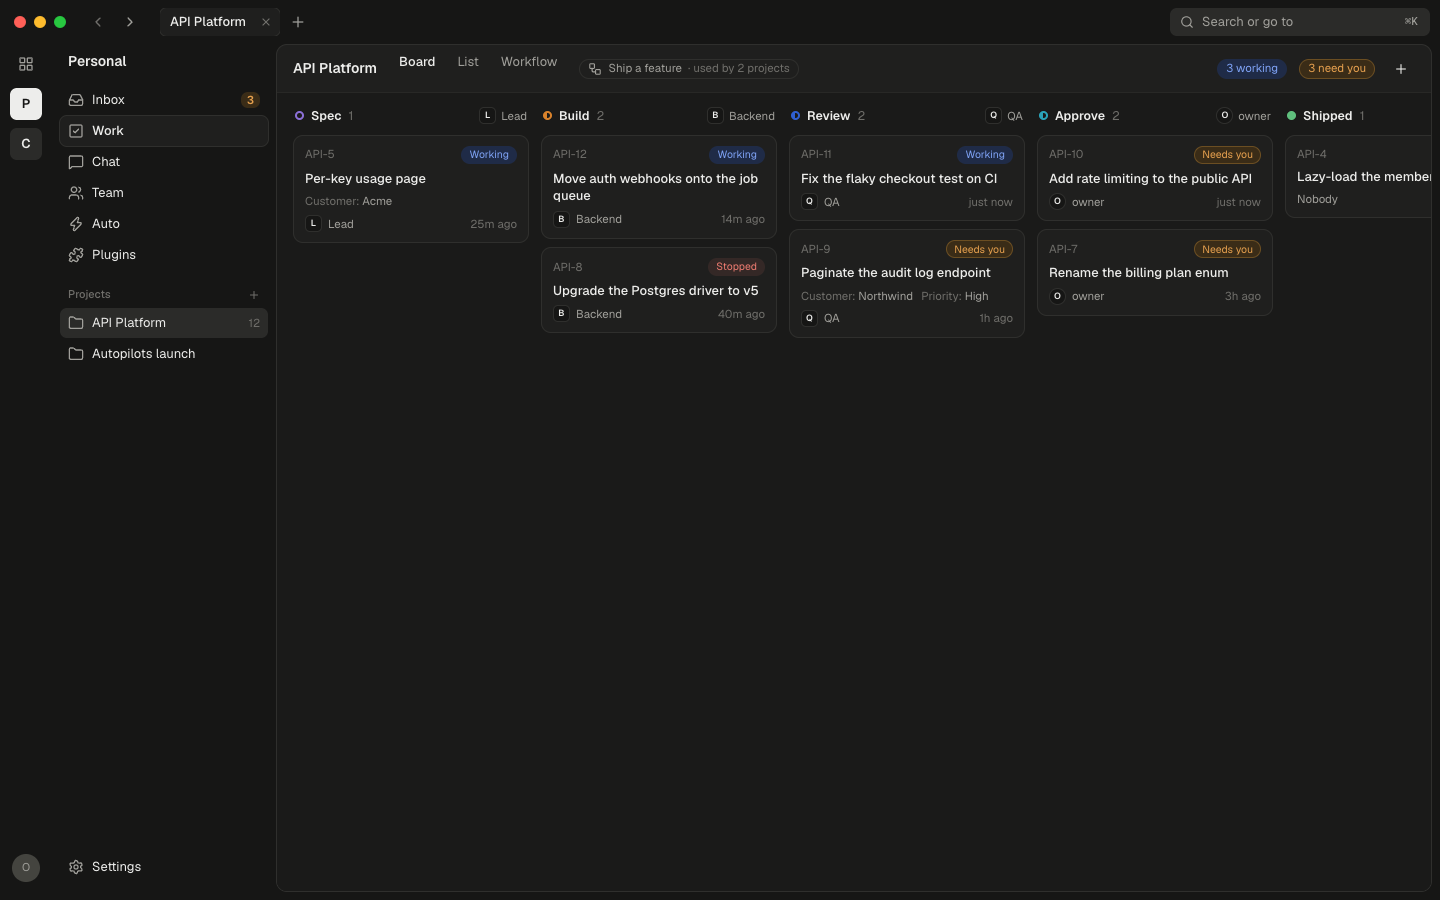
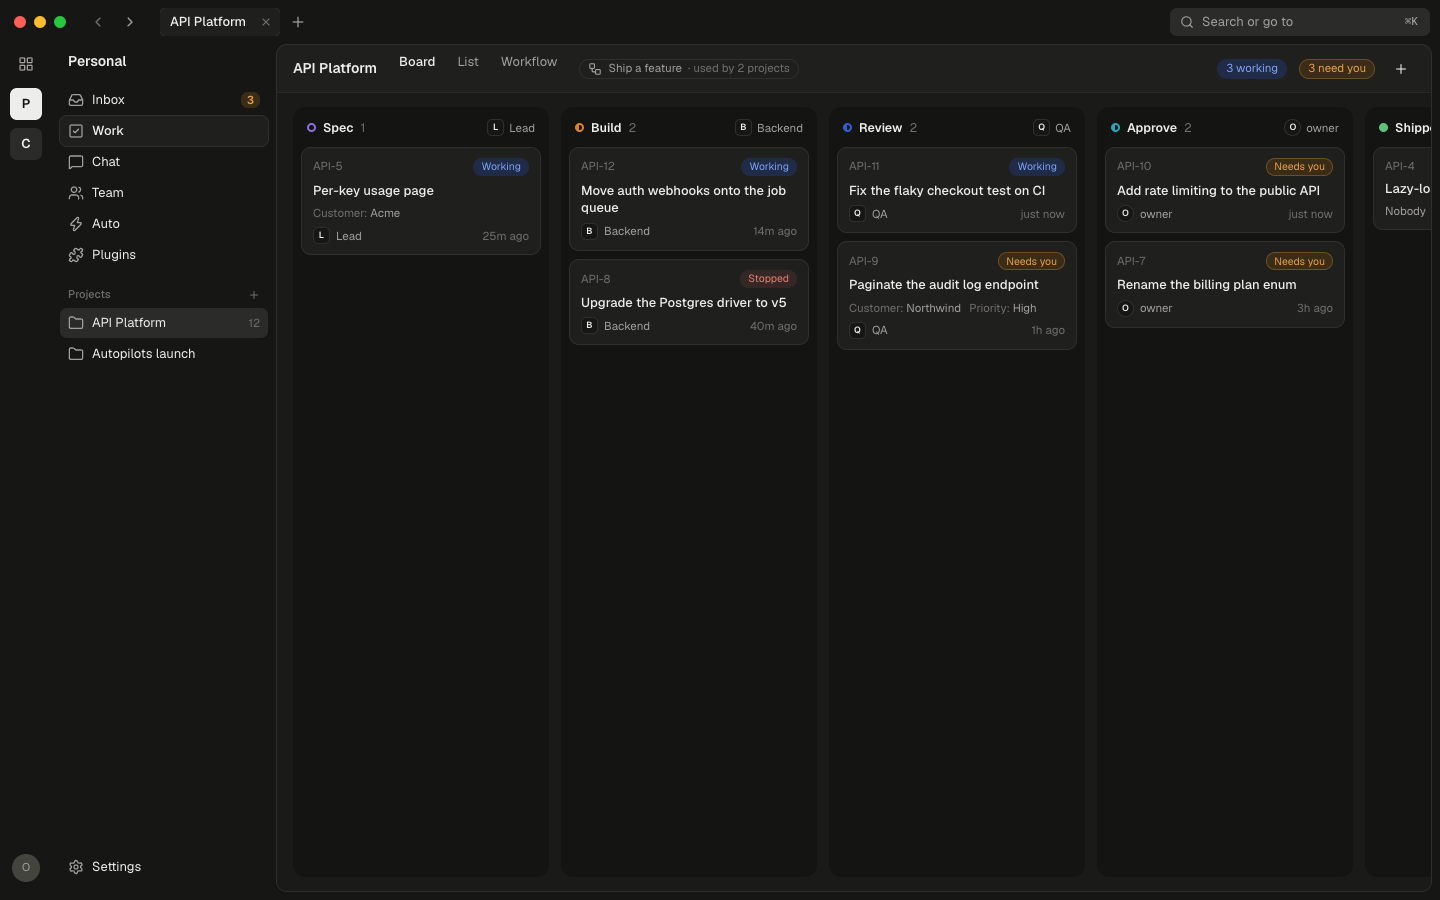
Board: each column is a lane, so empty columns and their owners read clearly

Changed region(s): [[0.2188, 0.1244, 1.0, 0.3733], [0.1875, 0.1244, 0.25, 0.1556], [0.3438, 0.2489, 0.375, 0.28]]

diff --git a/apps/desktop/src/mainview/components/flow/board.tsx b/apps/desktop/src/mainview/components/flow/board.tsx
@@ -190,7 +190,10 @@ function BoardSkeleton() {
   return (
     <div className="flex flex-1 gap-3 bg-board px-4 py-3.5" aria-busy="true">
       {[0, 1, 2, 3].map((i) => (
-        <div key={i} className="grid w-[236px] flex-none content-start gap-2">
+        <div
+          key={i}
+          className="grid w-[256px] flex-none content-start gap-2 rounded-[12px] bg-lane p-2"
+        >
           <Skeleton className="h-4 w-24" />
           <Skeleton className="h-20 w-full" />
         </div>
@@ -255,8 +258,11 @@ function Column({
 }) {
   const owner = ownerOf(names, status.owner);
   return (
-    <section className="flex w-[236px] flex-none flex-col gap-2" data-testid="board-column">
-      <header className="flex items-center gap-[7px] px-0.5 pb-0.5 font-semibold text-[12.5px]">
+    <section
+      className="flex w-[256px] flex-none flex-col gap-2 self-stretch rounded-[12px] bg-lane p-2"
+      data-testid="board-column"
+    >
+      <header className="flex items-center gap-[7px] px-1.5 pt-1 pb-0.5 font-semibold text-[12.5px]">
         <StatusMark index={index} count={count} />
         <span className="truncate">{status.name}</span>
         <span className="font-normal text-ink-faint" data-testid="column-count">

diff --git a/packages/ui/src/styles/desktop.css b/packages/ui/src/styles/desktop.css
@@ -137,6 +137,8 @@
   --ok: #2c8a4b;
   --bad: #c2372d;
   --board: #fbfbfa;
+  /* A board column's lane: a shade under the board, so a column's header and cards read as one. */
+  --lane: #f3f2ef;
   --hover: #ecebe8;
   --picked: #e9e8e4;
   --body-ink: #3c3c3a;
@@ -169,6 +171,7 @@
     --ok: #5fbf7d;
     --bad: #ee7b70;
     --board: #1a1a19;
+    --lane: #141413;
     --hover: #262624;
     --picked: #2b2b29;
     --body-ink: #c9c8c3;
@@ -203,6 +206,7 @@
   --color-ok: var(--ok);
   --color-bad: var(--bad);
   --color-board: var(--board);
+  --color-lane: var(--lane);
   --color-hover: var(--hover);
   --color-picked: var(--picked);
   --color-body-ink: var(--body-ink);
